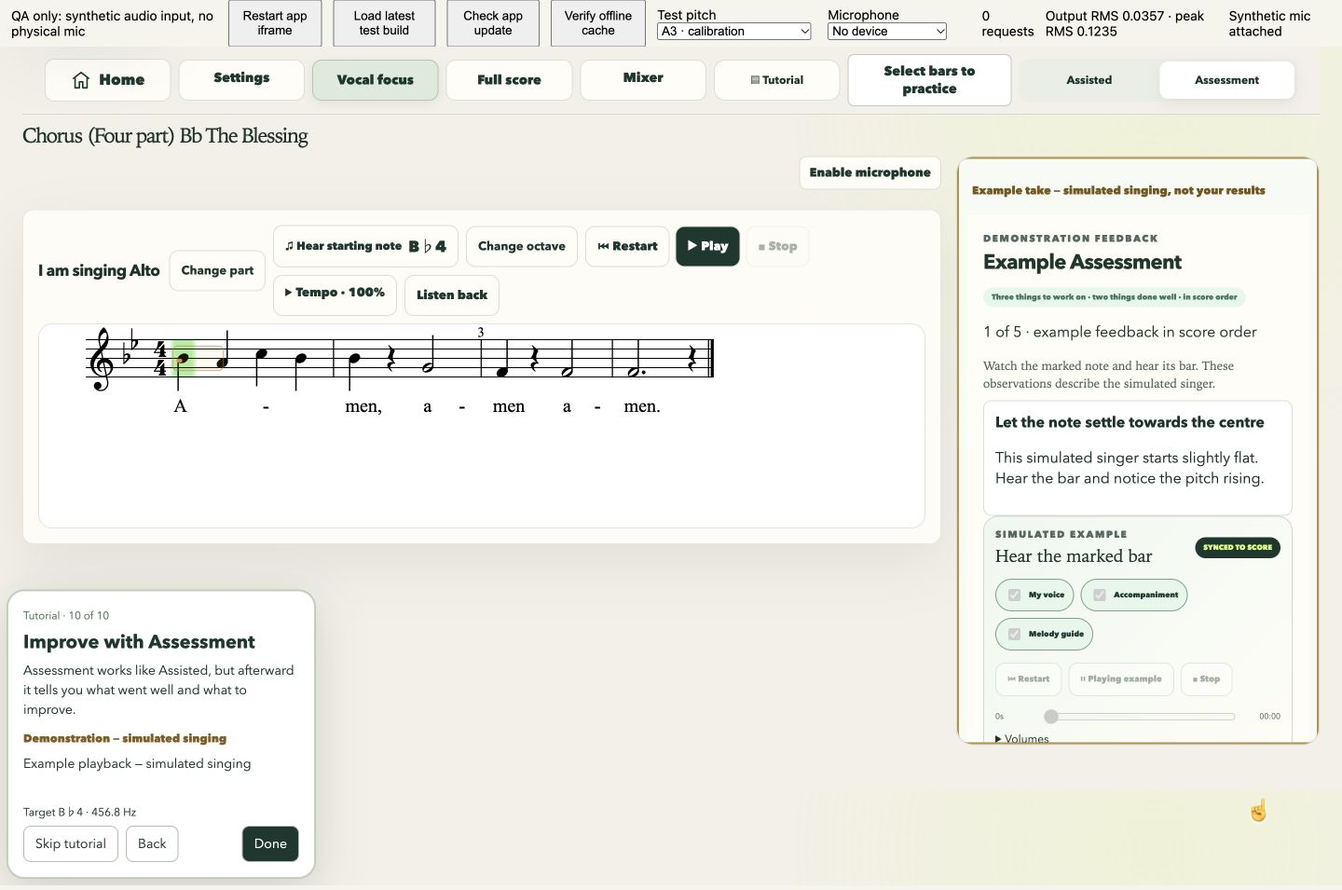
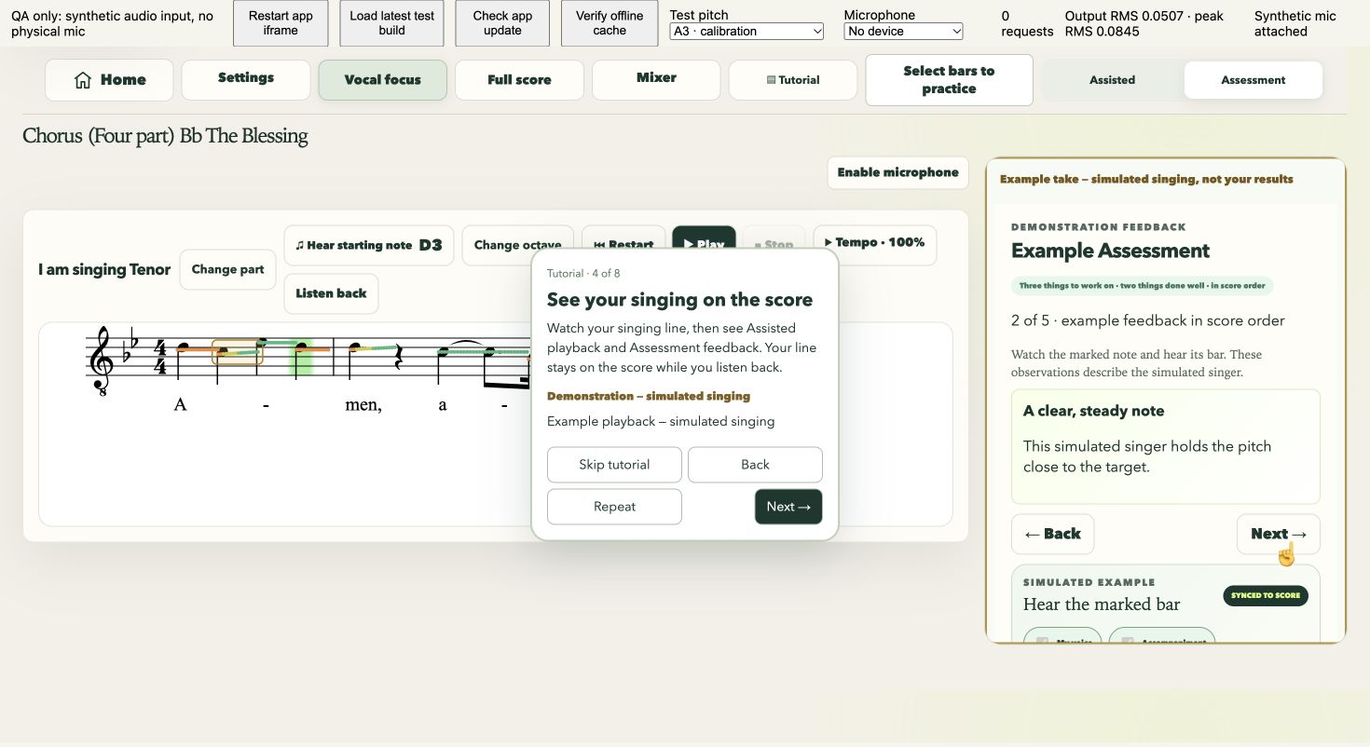
Keep tutorial demonstrations visible and restore former singing parts in Mixer

diff --git a/src/tutorial-demo-ui.js b/src/tutorial-demo-ui.js
@@ -2,7 +2,7 @@ import {colourForCents,midiToFrequency} from './config.js?v=34';
 import {pitchName} from './starting-note.js?v=34';
 import {pointForSample,traceSegments} from './score-overlay.js?v=34';
 import {playbackRoutes} from './playback-routing.js?v=34';
-import {correctionCents,singingTone,demoPhrase} from './tutorial-demo.js?v=34';
+import {correctionCents,singingTone,demoPhrase,phraseReviewPlan} from './tutorial-demo.js?v=34';
 const NS='http://www.w3.org/2000/svg';
 const svg=(name,attrs)=>{const e=document.createElementNS(NS,name);for(const [k,v] of Object.entries(attrs))e.setAttribute(k,String(v));return e;};
 export function renderTutorialTrace(container,geometry,samples){
@@ -15,13 +15,21 @@ export function renderTutorialTrace(container,geometry,samples){
 // recordings, assessment arrays and preference stores are never written here.
 export function createDemoUI(bridge){
  const {state,audio,els,$}=bridge;
- let samples=[],lastSample=-1,lastQuarter=-1,lastOctave=null,lastView=null,review=null,voiceGain=null,pointer=null;
+ let samples=[],lastSample=-1,lastQuarter=-1,lastOctave=null,lastView=null,review=null,voiceGain=null,pointer=null,pointerTarget=null,pointerAnimation=null;
  const textIds=['detectedNote','detectedFrequency','centsOutput','tuningPhase'];
  const clamp=value=>Math.max(0,Math.min(1,value));
  function point(element,progress=.5){
   if(!element)return;pointer??=Object.assign(document.createElement('span'),{className:'tutorial-pointer',textContent:'☝'});
   if(!pointer.isConnected)document.body.append(pointer);
-  const r=element.getBoundingClientRect();pointer.style.left=`${r.left+r.width*progress}px`;pointer.style.top=`${r.top+r.height*.6}px`;
+  const r=element.getBoundingClientRect(),left=r.left+r.width*progress,top=r.top+r.height*.6;
+  pointer.style.left=`${left}px`;pointer.style.top=`${top}px`;
+  if(pointerTarget!==element){
+   pointerAnimation?.cancel();pointerTarget=element;
+   if(!matchMedia('(prefers-reduced-motion: reduce)').matches)pointerAnimation=pointer.animate([
+    {transform:`translate(${innerWidth/2-left}px,${innerHeight/2-top}px)`},
+    {transform:'translate(-20%,0)'},
+   ],{duration:700,easing:'ease-out'});
+  }
  }
  function control(element,value){if(!element)return;const existing=element.type==='checkbox'?element.checked:element.value;if(String(existing)===String(value))return;if(element.type==='checkbox')element.checked=value;else element.value=String(value);element.dispatchEvent(new Event(element.type==='checkbox'?'change':'input',{bubbles:true}));}
  function mode(value){state.mode=value;els.modeButtons.forEach(button=>{const selected=button.dataset.mode===value;button.classList.toggle('active',selected);button.setAttribute('aria-checked',String(selected));});}
@@ -97,32 +105,10 @@ export function createDemoUI(bridge){
    }
    if(kind==='tempo'){$('#tempoPanel').open=true;control(els.tempoSlider,100);}
    data.timeline=demoPhrase(notes,kind,data.bpm);
+   if(kind==='phrase')Object.assign(data,phraseReviewPlan(notes,data.bpm));
    if(kind==='practice'){
     $('#practiceEditor').hidden=false;$('#editPracticeButton').setAttribute('aria-expanded','true');els.sectionFrom.value='';els.sectionTo.value='';$('#repeatPractice').checked=false;
     data.timeline=data.timeline.map(e=>({...e,start:e.start+2.2,end:e.end+2.2}));
-   }
-   if(kind==='assisted'||kind==='assessment'){
-    mode(kind);const take=demoPhrase(notes,'phrase',data.bpm),length=take.at(-1).end;
-    const intro=2*60/data.bpm,reviewStart=intro+length+.7;
-    data.timeline=take.map(e=>({...e,start:e.start+intro,end:e.end+intro}));
-    data.countInDuration=intro;data.reviewStart=reviewStart;
-    if(kind==='assisted')data.timeline.push(...take.map(e=>({...e,start:e.start+reviewStart,end:e.end+reviewStart,review:true})));
-    else{
-     let time=reviewStart;
-     data.observations=Array.from({length:5},(_,i)=>{
-      const note=notes[Math.min(notes.length-1,Math.floor(i*notes.length/5))];
-      const tone=i%2===1?'positive':'improvement';
-      return {note,tone,title:tone==='positive'?'A clear, steady note':'Let the note settle towards the centre',body:tone==='positive'?'This simulated singer holds the pitch close to the target.':'This simulated singer starts slightly flat. Hear the bar and notice the pitch rising.'};
-     });
-     data.observations.forEach((observation,i)=>{
-      const bar=part.vocalTimeline.filter(n=>n.measureNumber===observation.note.measureNumber).slice(0,8);
-      const segment=demoPhrase(bar,'phrase',data.bpm);
-      data.timeline.push(...segment.map(e=>({...e,start:e.start+time,end:e.end+time,review:true,observation:i})));
-      time+=segment.at(-1).end;
-     });
-     data.fullReviewStart=time;
-     data.timeline.push(...take.map(e=>({...e,start:e.start+time,end:e.end+time,review:true,observation:5})));
-    }
    }
    bridge.layout();return data;
   },
@@ -171,7 +157,6 @@ export function createDemoUI(bridge){
      const regions=[...els.scoreContainer.querySelectorAll('.score-measure-region')],region=regions.find(r=>Number(r.dataset.measureNumber)===(seconds<1?first:last));point(region,clamp((seconds-.4)/1.2));
      bridge.previewRange(first,seconds<1?first:last);$('#practiceRangeStatus').textContent=`Selected: bars ${first}–${seconds<1?first:last}`;
     }else{$('#repeatPractice').checked=true;point($('#repeatPractice'));}
-    if(seconds>=2.2&&innerWidth<=700){$('#practiceEditor').hidden=true;$('#editPracticeButton').setAttribute('aria-expanded','false');pointer?.remove();pointer=null;}
    }
    if(kind==='tempo'&&value.note){control(els.tempoSlider,value.pass===0?100:Math.round(100-30*clamp((seconds-data.timeline.find(e=>e.pass===1).start)/.3)));point(els.tempoSlider,value.pass===0?.5:.2);}
    if(Number.isFinite(value.midi)&&value.voiced!==false){
@@ -182,12 +167,17 @@ export function createDemoUI(bridge){
     els.countInDisplay.hidden=false;$('#countInBar').textContent=`Example count-in · ${Math.max(1,2-Math.floor(seconds/(60/data.bpm)))}`;point($('#dockPlayPauseButton'));
    }else if(kind==='assisted'||kind==='assessment')els.countInDisplay.hidden=true;
    if(value.note){
-    if(value.scoreQuarter<lastQuarter)samples=[];lastQuarter=value.scoreQuarter;
-    if(value.voiced!==false&&seconds-lastSample>=.035){samples.push({...value});lastSample=seconds;renderTutorialTrace(els.scoreContainer,state.scoreGeometry,samples);}
+    if(!value.review&&value.scoreQuarter<lastQuarter)samples=[];lastQuarter=value.scoreQuarter;
+    if(!value.review&&value.voiced!==false&&seconds-lastSample>=.035){samples.push({...value});lastSample=seconds;renderTutorialTrace(els.scoreContainer,state.scoreGeometry,samples);}
+    // Opening review reflows the notation; redraw the original take on its new geometry.
+    if(value.review&&samples.length)renderTutorialTrace(els.scoreContainer,state.scoreGeometry,samples);
     bridge.cursor(value.scoreQuarter,value.note);
     if(value.review){
-     if(!review)makeReview(kind==='assessment',data);value.target='.tutorial-review-example';
-     if(kind==='assessment'){
+     const reviewMode=value.mode||kind;
+     if(state.mode!==reviewMode||!review){mode(reviewMode);makeReview(reviewMode==='assessment',data);data.modeChangedAt=seconds;}
+     value.target=seconds-data.modeChangedAt<1?`[data-mode="${reviewMode}"]`:'.tutorial-review-example';
+     if(seconds-data.modeChangedAt<1){point(document.querySelector(value.target));value.message=`Select ${reviewMode==='assisted'?'Assisted to listen back':'Assessment for feedback in score order'}. Your singing line stays visible.`;}
+     if(reviewMode==='assessment'){
       const observation=data.observations[value.observation];
       const list=review.querySelector('#demo-coachObservations');
       if(list.dataset.step!==String(value.observation)){
@@ -211,6 +201,10 @@ export function createDemoUI(bridge){
     }
    }
   },
+  refresh(){if(samples.length)renderTutorialTrace(els.scoreContainer,state.scoreGeometry,samples);},
+  finish(){
+   if(review){review.querySelector('#demo-performancePlay').innerHTML='▶ <span>Example complete</span>';review.querySelector('.performance-playback-head > span').textContent='Repeat the tutorial example to hear it again';}
+  },
   async restore(snapshot){
    state.guideSettings=snapshot.guideSettings;state.guideVoice=snapshot.guideVoice;state.partVolumes=snapshot.partVolumes;state.partVoices=snapshot.partVoices;state.enabledParts=new Set(snapshot.enabledParts);
    audio.setGuideVolume(snapshot.guideSettings.volume);audio.setGuideVoice(snapshot.guideVoice);
@@ -229,7 +223,7 @@ export function createDemoUI(bridge){
    state.tutorialDemoActive=false;if(state.microphoneDecision==='ready'&&audio.hasMicrophoneStream)audio.startPitchSampling();
   },
   cleanup(){
-   pointer?.remove();pointer=null;review?.remove();review=null;
+   pointerAnimation?.cancel();pointerAnimation=null;pointerTarget=null;pointer?.remove();pointer=null;review?.remove();review=null;
    samples=[];lastQuarter=-1;els.countInDisplay.hidden=true;
    document.querySelectorAll('.tutorial-demo-trace').forEach(e=>e.remove());document.querySelectorAll('.tutorial-mixer-target').forEach(e=>e.classList.remove('tutorial-mixer-target'));document.body.classList.remove('tutorial-demo-meter','tutorial-demo-mixer');bridge.mark(null);bridge.octaves().closeDemo();bridge.layout();
   },

diff --git a/src/tutorial-demo.js b/src/tutorial-demo.js
@@ -4,13 +4,11 @@ export const TUTORIAL_LESSONS=Object.freeze([
  {id:'starting',target:'#hearStartingNote',title:'Hear your starting note',copy:'Before singing, listen to your starting note. You can sing it back and use the pitch meter to check your voice.'},
  {id:'octaves',target:'#changeOctaveButton',title:'Choose your singing octave',copy:'Choose a comfortable register. The singing target and vocal guide change octave; the score and accompaniment stay as written.'},
  {id:'pitch',target:'#tuningMeter',title:'From flat to in tune',copy:'Listen and watch the singer gently raise their pitch towards the centre.'},
- {id:'phrase',target:'.score-viewport',title:'See your singing on the score',copy:'The line shows how your voice moves through the music. Its position shows your pitch, and the colour shows how accurately you’re singing.'},
+ {id:'phrase',target:'.score-viewport',title:'See your singing on the score',copy:'Watch your singing line, then see Assisted playback and Assessment feedback. Your line stays on the score while you listen back.'},
  {id:'mixer',target:'#mixerPanel',title:'Balance your music',copy:'Bring the other parts in one at a time, then lower an accompaniment so your guide is easier to hear.'},
  {id:'tempo',target:'#tempoPanel',title:'Slow down the music',copy:'If a passage is difficult, slow it down. You can bring the speed back up when you’re ready.'},
  {id:'practice',target:'#editPracticeButton',title:'Practise a short section',copy:'Enter bar numbers or drag across the score. Repeat plays your selected bars again.'},
  {id:'views',target:'[data-view="vocal"]',title:'See the music your way',copy:'Vocal Focus shows your melody. Full Score shows how your part fits with the other voices and instruments.'},
- {id:'assisted',target:'[data-mode="assisted"]',title:'Practise with Assisted',copy:'Assisted helps you practise your singing and listen back to what you performed.'},
- {id:'assessment',target:'[data-mode="assessment"]',title:'Improve with Assessment',copy:'Assessment works like Assisted, but afterward it tells you what went well and what to improve.'},
 ]);
 export function correctionCents(seconds){
  const progress=Math.max(0,Math.min(1,(seconds-2.4)/2));
@@ -32,6 +30,20 @@ export function demoPhrase(notes,kind='phrase',bpm=80){
  }
  return entries;
 }
+// One sung take, followed by both review flows, retaining the original trace.
+export function phraseReviewPlan(notes,bpm=80){
+ const take=demoPhrase(notes,'phrase',bpm),timeline=[...take],length=take.at(-1)?.end||1;
+ let time=length+1;
+ const append=(entries,extra)=>{timeline.push(...entries.map(e=>({...e,start:e.start+time,end:e.end+time,review:true,...extra})));time+=entries.at(-1)?.end||1;};
+ append(take,{mode:'assisted'});time+=1;
+ const observations=Array.from({length:5},(_,i)=>{
+  const note=notes[Math.min(notes.length-1,Math.floor(i*notes.length/5))],tone=i%2===1?'positive':'improvement';
+  return {note,tone,title:tone==='positive'?'A clear, steady note':'Let the note settle towards the centre',body:tone==='positive'?'This simulated singer holds the pitch close to the target.':'This simulated singer starts slightly flat. Hear the bar and notice the pitch rising.'};
+ });
+ observations.forEach((observation,i)=>append(demoPhrase(notes.filter(n=>n.measureNumber===observation.note.measureNumber),'phrase',bpm),{mode:'assessment',observation:i}));
+ const fullReviewStart=time;append(take,{mode:'assessment',observation:5});
+ return {timeline,observations,fullReviewStart};
+}
 export function demoFrame(kind,seconds,data){
  const target=data.targetMidi;
  if(kind==='pitch'){
@@ -47,7 +59,7 @@ export function demoFrame(kind,seconds,data){
  const progress=Math.min(1,Math.max(0,(seconds-entry.start)/(entry.end-entry.start)));
  const voiceProgress=Math.min(1,Math.max(0,(seconds-entry.start)/Math.max(.001,entry.duration)));
  const cents=entry.index%3===0?-35:entry.index%3===1?-35+37*voiceProgress:2;
- return {voiced:seconds-entry.start<entry.duration,target:data.displayTarget,note:entry.note,targetId:entry.note.id,targetMidi:entry.note.midi+data.shift,midi:entry.note.midi+data.shift+cents/100,cents,frequency:demoFrequency(entry.note.midi+data.shift,cents),colour:colourForCents(cents),scoreQuarter:entry.note.onsetQuarters+(entry.endQuarter-entry.note.onsetQuarters)*progress,scoreSeconds:seconds,index:entry.index,pass:entry.pass,review:entry.review,observation:entry.observation,message:entry.review?'Example playback — simulated singing':kind==='tempo'?(entry.pass===0?'The melody at 100%.':'The same melody more slowly at 70%.'):kind==='practice'?`The selected bars repeat · pass ${entry.pass+1} of 2.`:'The line shows the pitch and accuracy of the simulated singer.'};
+ return {voiced:seconds-entry.start<entry.duration,target:data.displayTarget,note:entry.note,targetId:entry.note.id,targetMidi:entry.note.midi+data.shift,midi:entry.note.midi+data.shift+cents/100,cents,frequency:demoFrequency(entry.note.midi+data.shift,cents),colour:colourForCents(cents),scoreQuarter:entry.note.onsetQuarters+(entry.endQuarter-entry.note.onsetQuarters)*progress,scoreSeconds:seconds,index:entry.index,pass:entry.pass,review:entry.review,mode:entry.mode,observation:entry.observation,message:entry.review?'Example playback — simulated singing':kind==='tempo'?(entry.pass===0?'The melody at 100%.':'The same melody more slowly at 70%.'):kind==='practice'?`The selected bars repeat · pass ${entry.pass+1} of 2.`:'The line shows the pitch and accuracy of the simulated singer.'};
 }
 // Continuous audio uses the same cents function and audio-context clock as the
 // visual frames. Its graph is output-only: never connected to a microphone.
@@ -90,10 +102,10 @@ export function createTutorialDemos(adapter,{request=requestAnimationFrame,cance
     await adapter.display(kind,value,data,seconds,()=>token===generation);
     if(token!==generation)return;
     onUpdate({...value,seconds,duration});
-    if(seconds>=duration){stop();await restoring;if(token+1===generation)onUpdate({done:true,message:'Example complete. Continue when you’re ready.'});return;}
+    if(seconds>=duration){frame=null;disposeAudio?.();disposeAudio=null;adapter.finish?.(kind,data);onUpdate({done:true,message:'Example complete. Repeat it or continue when you’re ready.'});return;}
     frame=request(tick);
    };frame=request(tick);return true;
   }catch(error){if(token===generation){stop();onUpdate({done:true,message:error.message||'This example could not play. Use Back and Next to try again.'});}return false;}
  }
- return {get active(){return active;},run,stop,unlock};
+ return {get active(){return active;},run,stop,unlock,refresh(){if(active)adapter.refresh?.();}};
 }

diff --git a/src/tutorial.js b/src/tutorial.js
@@ -5,6 +5,7 @@ const TUTORIAL_KEY='vocal-coach:tutorial:v5';
 export function tutorialPosition(target,card,viewport,blockers=[]) {
  const gap=12,edge=8;
  const candidates=[
+  {left:(viewport.width-card.width)/2,top:(viewport.height-card.height)/2},
   {left:edge,top:viewport.height-card.height-edge},
   {left:viewport.width-card.width-edge,top:viewport.height-card.height-edge},
   {left:target.right+gap,top:target.top},
@@ -32,10 +33,10 @@ export function createOnboarding({storage,show,hide,onStudioReady=()=>{}}){
 }
 
 export function createTutorial({onStudioReady=()=>{},demos}={}){
- let kind='studio',index=0,target=null,run=0,audioBlocked=false;
+ let kind='studio',index=0,target=null,run=0,audioBlocked=false,anchor=null;
  const card=document.createElement('section');card.className='tutorial-card';card.hidden=true;
  card.setAttribute('role','dialog');card.setAttribute('aria-labelledby','tutorialTitle');
- card.innerHTML='<div class="tutorial-lesson-body"><small id="tutorialProgress"></small><h2 id="tutorialTitle"></h2><p id="tutorialCopy"></p><p id="demoLabel">Demonstration — simulated singing</p><p id="demoStatus" role="status"></p><output id="demoPitch"></output></div><div class="tutorial-actions"><button type="button" data-tour="skip">Skip tutorial</button><button type="button" data-tour="back">Back</button><button type="button" data-tour="next">Next →</button></div>';
+ card.innerHTML='<div class="tutorial-lesson-body"><small id="tutorialProgress"></small><h2 id="tutorialTitle"></h2><p id="tutorialCopy"></p><p id="demoLabel">Demonstration — simulated singing</p><p id="demoStatus" role="status"></p><output id="demoPitch"></output></div><div class="tutorial-actions"><button type="button" data-tour="skip">Skip tutorial</button><button type="button" data-tour="back">Back</button><button type="button" data-tour="repeat">Repeat</button><button type="button" data-tour="next">Next →</button></div>';
  document.body.append(card);const find=selector=>card.querySelector(selector);
  const visible=e=>e&&!e.closest('[hidden]')&&e.getBoundingClientRect().width>0;
  function highlight(selector){
@@ -46,14 +47,17 @@ export function createTutorial({onStudioReady=()=>{},demos}={}){
   if(card.hidden)return;
   const rect=target?.getBoundingClientRect()||{left:16,right:16,top:80,bottom:80};
   const size=card.getBoundingClientRect();
-  // A stable bottom corner leaves the score and top popovers in place.
-  const blockers=[document.querySelector('.score-viewport'),document.querySelector('#tuningMeter')].filter(visible).map(e=>e.getBoundingClientRect());
-  const point=tutorialPosition(rect,size,{width:innerWidth,height:innerHeight},blockers);
-  card.style.left=`${point.left}px`;card.style.top=`${point.top}px`;
+  const viewport={width:innerWidth,height:innerHeight};
+  // Stay put within a lesson unless its current subject would be covered.
+  const overlaps=p=>p.left<rect.right&&p.left+size.width>rect.left&&p.top<rect.bottom&&p.top+size.height>rect.top;
+  if(!anchor||overlaps(anchor)||anchor.left+size.width>innerWidth-8||anchor.top+size.height>innerHeight-8)
+   anchor=tutorialPosition(rect,size,viewport);
+  const point=anchor;
+  card.style.setProperty('--tutorial-left',`${point.left}px`);card.style.setProperty('--tutorial-top',`${point.top}px`);
  }
  function hide(){run++;demos.stop();target?.classList.remove('tutorial-target');target=null;card.hidden=true;document.body.classList.remove('tutorial-studio');}
  function render(){
-  const token=++run;demos.stop();audioBlocked=false;
+  const token=++run;demos.stop();audioBlocked=false;anchor=null;
   const lesson=TUTORIAL_LESSONS[index];
   target?.classList.remove('tutorial-target');target=null;
   card.hidden=false;document.body.classList.toggle('tutorial-studio',kind==='studio');
@@ -81,8 +85,9 @@ export function createTutorial({onStudioReady=()=>{},demos}={}){
  card.addEventListener('click',event=>{
   const action=event.target.closest('[data-tour]')?.dataset.tour;
   if(action==='skip'){complete();return;}
-  if(!['back','next'].includes(action))return;
+  if(!['back','next','repeat'].includes(action))return;
   demos.unlock();
+  if(action==='repeat'){render();return;}
   if(action==='next'&&audioBlocked){render();return;}
   if(action==='next'&&index===TUTORIAL_LESSONS.length-1){complete();return;}
   index=Math.max(0,index+(action==='back'?-1:1));render();
@@ -98,6 +103,6 @@ export function createTutorial({onStudioReady=()=>{},demos}={}){
   }
  };
  document.addEventListener('keydown',keys,true);window.addEventListener('resize',position);
- return {showView:name=>controller.view(name),setActive:value=>controller.active(value),replay(){demos.unlock();return controller.replay();},refreshOverview:position,
+ return {showView:name=>controller.view(name),setActive:value=>controller.active(value),replay(){demos.unlock();return controller.replay();},refreshOverview(){demos.refresh?.();position();},
  destroy(){controller.destroy();document.removeEventListener('keydown',keys,true);window.removeEventListener('resize',position);card.remove();}};
 }

diff --git a/test/tutorial-demo.test.js b/test/tutorial-demo.test.js
@@ -27,8 +27,8 @@ function harness(){
  const demo=createTutorialDemos(adapter,{request:fn=>{callback=fn;return 1;},cancel:()=>{callback=null;}});
  return {demo,adapter,calls,async tick(seconds){now=seconds;await callback?.();}};
 }
-test('demo does not start itself, and completion stops sound before restoring exactly once',async()=>{
- const h=harness();assert.equal(h.demo.active,false);assert.deepEqual(h.calls,[]);await h.demo.run('pitch');assert.equal(h.demo.active,true);await h.tick(1);await h.tick(7);assert.equal(h.demo.active,false);assert.equal(h.calls.filter(c=>c==='restore').length,1);assert.ok(h.calls.indexOf('stop audio')<h.calls.indexOf('restore'));h.demo.stop();assert.equal(h.calls.filter(c=>c==='restore').length,1);
+test('completion stops audio and holds demonstration until navigation restores exactly once',async()=>{
+ const h=harness();assert.equal(h.demo.active,false);assert.deepEqual(h.calls,[]);await h.demo.run('pitch');assert.equal(h.demo.active,true);await h.tick(1);await h.tick(7);assert.equal(h.demo.active,true);assert.equal(h.calls.filter(c=>c==='restore').length,0);assert.ok(h.calls.includes('stop audio'));h.demo.stop();assert.ok(h.calls.indexOf('stop audio')<h.calls.indexOf('restore'));assert.equal(h.calls.filter(c=>c==='restore').length,1);
 });
 test('Skip/Escape while asynchronous samples load cannot restart a cancelled demo',async()=>{
  const h=harness();let ready;h.adapter.prepare=()=>new Promise(resolve=>ready=resolve);const pending=h.demo.run('phrase');await Promise.resolve();h.demo.stop();ready({...data,context:{currentTime:0}});assert.equal(await pending,false);assert.equal(h.demo.active,false);assert.ok(!h.calls.includes('audio'));assert.equal(h.calls.filter(c=>c==='restore').length,1);
@@ -80,9 +80,9 @@ test('production demo adapter restores mixer, target, cursor and display without
  }finally{globalThis.document=previousDocument;}
 });
 
-test('one ordered tutorial covers all ten lessons and ends with Assessment',async()=>{
+test('one ordered tutorial folds both review modes into the score lesson',async()=>{
  const {TUTORIAL_LESSONS}=await import('../src/tutorial-demo.js');
- assert.deepEqual(TUTORIAL_LESSONS.map(l=>l.id),['starting','octaves','pitch','phrase','mixer','tempo','practice','views','assisted','assessment']);
+ assert.deepEqual(TUTORIAL_LESSONS.map(l=>l.id),['starting','octaves','pitch','phrase','mixer','tempo','practice','views']);
  const tutorial=await readFile(new URL('../src/tutorial.js',import.meta.url),'utf8');
  for(const removed of ['TOUR_STEPS','SINGING_LESSONS','Watch demo','Replay demo','Try it','onTry','stage='])assert.ok(!tutorial.includes(removed));
  assert.ok(tutorial.includes('demos.run(lesson.id'));assert.ok(tutorial.includes('audioBlocked'));
@@ -118,4 +118,20 @@ test('trace and sung correction stop at the note end while the cursor continues 
  assert.equal(demoFrame('phrase',.2,testData).voiced,true);
  assert.equal(demoFrame('phrase',1,testData).voiced,false);
  assert.ok(demoFrame('phrase',1,testData).scoreQuarter>note.durationQuarters);
+});
+
+test('score lesson sings once then demonstrates both modes in score order with full playback last',async()=>{
+ const {phraseReviewPlan}=await import('../src/tutorial-demo.js');
+ const plan=phraseReviewPlan(notes,80);
+ assert.equal(plan.timeline.filter(e=>!e.review).length,notes.length);
+ assert.deepEqual([...new Set(plan.timeline.filter(e=>e.review).map(e=>e.mode))],['assisted','assessment']);
+ assert.deepEqual(plan.observations.map(o=>o.note.onsetQuarters),[8,9,10,11,12]);
+ assert.equal(plan.timeline.at(-1).observation,5);
+ assert.ok(plan.timeline.every((e,i,a)=>!i||e.start>=a[i-1].end));
+});
+test('Repeat restarts a held example and Skip still restores once',async()=>{
+ const h=harness();await h.demo.run('pitch');await h.tick(7);
+ await h.demo.run('pitch');assert.equal(h.calls.filter(c=>c==='restore').length,1);
+ assert.equal(h.calls.filter(c=>c==='audio').length,2);await h.demo.stop();
+ assert.equal(h.calls.filter(c=>c==='restore').length,2);
 });

diff --git a/index.html b/index.html
@@ -66,12 +66,13 @@
               <p>Use only when the automatic check needs a manual adjustment.</p>
             </details>
 
-            <p class="settings-privacy">Your scores, microphone data and recordings stay on this device. Nothing is uploaded.</p></details></div></details><div class="view-switch" role="group" aria-label="Score view"><button type="button" class="active" data-view="vocal">Vocal focus</button><button type="button" data-view="full">Full score</button></div><details id="mixerPanel" class="mixer-panel"><summary>Mixer</summary><div class="mixer-grid">            <div class="accompaniment-block"><div class="setting-label"><span>Accompaniment</span><button id="toggleAllParts" type="button">Mute all</button></div><div class="accompaniment-list" id="accompanimentList"></div></div>
-            <div class="volume-block"><label class="guide-enabled-control"><input id="guideEnabled" type="checkbox" checked /> Vocal guide: On / Off</label><p class="guide-headphone-advice">Headphones are recommended for reliable assessment. Speakers can leak the guide into your microphone.</p>
-              <label class="volume-field" for="guideVolume"><span><strong>Vocal Guide</strong><output id="guideVolumeOutput">92%</output></span><input id="guideVolume" type="range" min="0" max="100" value="92" step="2" /></label>
-              <label class="guide-voice-field" for="guideVoice"><span>Guide voice</span><select id="guideVoice"><option value="human" selected>Human voice</option><option value="synthetic-ah">Synthetic Ah</option></select></label>
+            <p class="settings-privacy">Your scores, microphone data and recordings stay on this device. Nothing is uploaded.</p></details></div></details><div class="view-switch" role="group" aria-label="Score view"><button type="button" class="active" data-view="vocal">Vocal focus</button><button type="button" data-view="full">Full score</button></div><details id="mixerPanel" class="mixer-panel"><summary>Mixer</summary><div class="mixer-grid">
+            <div class="volume-block"><label class="guide-enabled-control"><input id="guideEnabled" type="checkbox" checked /> My part: On / Off</label><p class="guide-headphone-advice">Headphones are recommended for reliable assessment. Speakers can leak the guide into your microphone.</p>
+              <label class="volume-field" for="guideVolume"><span><strong>My part</strong><output id="guideVolumeOutput">92%</output></span><input id="guideVolume" type="range" min="0" max="100" value="92" step="2" /></label>
+              <label class="guide-voice-field" for="guideVoice"><span>Sound</span><select id="guideVoice"><option value="human" selected>Human voice</option><option value="synthetic-ah">Synthetic Ah</option></select></label>
               <p class="setting-message guide-voice-status" id="guideVoiceStatus" role="status" aria-live="polite" hidden></p>
             </div>
+            <div class="accompaniment-block"><div class="setting-label"><span>Accompaniment</span><button id="toggleAllParts" type="button">Mute all</button></div><div class="accompaniment-list" id="accompanimentList"></div></div>
 </div></details><button id="studioTutorialButton" type="button">▤ Tutorial</button><button id="editPracticeButton" type="button">Select bars to practice</button><div class="mode-switch" role="radiogroup" aria-label="Session mode">
               <button type="button" class="active" data-mode="assisted" role="radio" aria-checked="true"><strong>Assisted</strong><small>Record + review</small></button>
               <button type="button" data-mode="assessment" role="radio" aria-checked="false"><strong>Assessment</strong><small>Detailed coaching</small></button>

diff --git a/test/guided-preparation.test.js b/test/guided-preparation.test.js
@@ -32,3 +32,11 @@ test('an octave confirmation is deferred during a recorded take',()=>{
  const fn=new Function('state','audio','$','document','pitchName',text+';return renderOctaveSuggestion;')(state,audio,$,{querySelector:()=>null},midi=>String(midi));
  fn();assert.equal(shown,0);audio.isPlaying=false;state.sessionOctaveShift=null;fn();assert.equal(shown,1);assert.equal($('#acceptOctaveSuggestion').textContent,'Switch to 38');
 });
+
+test('changing singing part restores the former target as accompaniment while retaining deliberate mutes',()=>{
+ const start=app.indexOf('function restoreScorePreferences()'),end=app.indexOf('\nfunction scorePreferences()',start);
+ const state={savedPreferences:{selectedPartId:'bass',enabledParts:['alto','piano'],octaveByPart:{}},selectedPartId:'alto',score:{parts:[{id:'bass'},{id:'alto'},{id:'tenor'},{id:'piano'}]},enabledParts:new Set(['bass','tenor','piano']),partVolumes:{},partVoices:{}};
+ const enabled=[];const deps={state,audio:{setPartEnabled:(id,on)=>enabled.push([id,on])},practiceMode:x=>x,guideSettings:()=>({}),renderGuideSettings(){},setGuideVoice(){},setCountInBars(){},DEFAULT_OCTAVE_SHIFT:0,setOctaveShift(){},normaliseGuideVoice:x=>x,renderAccompaniment(){},renderPracticeRangeControls(){},setMode(){},updateSetupSummary(){}};
+ new Function(...Object.keys(deps),app.slice(start,end)+';restoreScorePreferences();')(...Object.values(deps));
+ assert.deepEqual([...state.enabledParts].sort(),['bass','piano']);assert.ok(enabled.some(([id,on])=>id==='bass'&&on));
+});

diff --git a/app.js b/app.js
@@ -414,7 +414,7 @@ function restoreScorePreferences() {
   for (const part of state.score.parts.filter(p=>p.id!==state.selectedPartId)) {
     if (Number.isFinite(prefs.partVolumes?.[part.id])) {state.partVolumes[part.id]=Math.max(0,Math.min(100,prefs.partVolumes[part.id]));audio.setPartVolume(part.id,state.partVolumes[part.id]);}
     if (prefs.partVoices?.[part.id]) {state.partVoices[part.id]=normaliseGuideVoice(prefs.partVoices[part.id]);audio.setPartVoice(part.id,state.partVoices[part.id]);}
-    if (Array.isArray(prefs.enabledParts)) {if(prefs.enabledParts.includes(part.id))state.enabledParts.add(part.id);else state.enabledParts.delete(part.id);audio.setPartEnabled(part.id,state.enabledParts.has(part.id));}
+    if (Array.isArray(prefs.enabledParts)) {if(prefs.enabledParts.includes(part.id)||prefs.selectedPartId===part.id)state.enabledParts.add(part.id);else state.enabledParts.delete(part.id);audio.setPartEnabled(part.id,state.enabledParts.has(part.id));}
   }
   renderAccompaniment();renderPracticeRangeControls();setMode(state.mode);updateSetupSummary();
 }

diff --git a/styles.css b/styles.css
@@ -1086,3 +1086,13 @@ body.tutorial-demo-meter .score-stage { grid-template-columns:minmax(0,1fr) clam
 }
 
 #changePartDialog button[value="change"] { background:var(--forest); color:white; }
+
+/* Tutorial cards have a steady centre-first anchor, moved only to reveal a subject. */
+body.tutorial-studio .tutorial-card,
+body.tutorial-studio:has(.tutorial-octaves[open]) .tutorial-card,
+body.tutorial-demo-mixer .tutorial-card { left:var(--tutorial-left,8px)!important; top:var(--tutorial-top,8px)!important; bottom:auto; right:auto; }
+.tutorial-card .tutorial-actions { display:grid; grid-template-columns:repeat(2,minmax(0,1fr)); gap:6px; }
+.tutorial-card #demoPitch { min-height:18px; }
+.tutorial-pointer { animation:none; }
+
+.mixer-grid > .volume-block:first-child { border-top:0; padding-top:0; }

diff --git a/test/onboarding-selection.test.js b/test/onboarding-selection.test.js
@@ -72,3 +72,7 @@ test('redesigned tour is offered once to a user who completed the previous versi
  assert.deepEqual(t.shown,['studio']);t.controller.skip('studio');
  const reopened=onboarding(t.storage);reopened.controller.view('studio');assert.deepEqual(reopened.shown,[]);
 });
+
+test('tutorial defaults to the centre when its subject is unobstructed',()=>{
+ assert.deepEqual(tutorialPosition({left:10,right:110,top:20,bottom:60},{width:300,height:240},{width:1440,height:900}),{left:570,top:330});
+});

diff --git a/docs/qa/automatic-tutorial/README.md b/docs/qa/automatic-tutorial/README.md
@@ -2,11 +2,11 @@
 
 ## Changes
 
-The navigation tour and separate Singing Lessons have been replaced by one ten-lesson Tutorial. Opening a score offers it once; completing or skipping stores `vocal-coach:tutorial:v5`. Earlier tour completions deliberately do not suppress this redesigned experience. There is no second welcome tutorial. Tutorial replays from lesson one while the studio is idle.
+The navigation tour and separate Singing Lessons have been replaced by one eight-lesson Tutorial. Opening a score offers it once; completing or skipping stores `vocal-coach:tutorial:v5`. Earlier tour completions deliberately do not suppress this redesigned experience. There is no second welcome tutorial. Tutorial replays from lesson one while the studio is idle.
 
-Every lesson starts its example automatically. Back restarts the previous example, Next advances, Done finishes the last lesson, and Skip/Escape stop the example. An autoplay-blocked first visit shows the visual explanation and uses Next to unlock and restart the audible example. Lessons never advance themselves.
+Every lesson starts its example automatically. Repeat restarts the current example. When sound finishes, its demonstrated panel, settings and singing trace remain visible until navigation; natural completion no longer restores the screen. Cards prefer the centre and retain their anchor within each lesson unless they cover the demonstrated subject. Pointers travel from the viewport centre to each new subject, respecting reduced motion. Back restarts the previous example, Next advances, Done finishes the last lesson, and Skip/Escape stop the example. An autoplay-blocked first visit shows the visual explanation and uses Next to unlock and restart the audible example. Lessons never advance themselves.
 
-The examples use the current score and real guide/accompaniment instruments. Mixer inputs change actual channel gains, tempo changes actual control values and musical scheduling, practice selection dims outside bars and plays two passes, and view selection re-renders OSMD. Assisted/Assessment use labelled simulated singing and isolated copies of the production review surfaces. Assessment demonstrates three improvements and two positives in score order, corresponding bar playback, then full-example playback and volume controls. Demo controls are illustrative; Tutorial navigation remains the only active navigation. No recording is created or saved.
+The examples use the current score and real guide/accompaniment instruments. Mixer inputs change actual channel gains, tempo changes actual control values and musical scheduling, practice selection dims outside bars and plays two passes, and view selection re-renders OSMD. The score-trace lesson sings once and then shows Assisted playback, Assessment feedback and full playback while retaining the original trace. Separate Assisted/Assessment lessons 9 and 10 have been removed. Both modes use labelled simulated singing and isolated copies of the production review surfaces. Assessment demonstrates three improvements and two positives in score order, corresponding bar playback, then full-example playback and volume controls. Demo controls are illustrative; Tutorial navigation remains the only active navigation. No recording is created or saved.
 
 Cancellation restores Mixer settings, octave choice, tempo, range/Repeat, view, mode, cursor, tuner text and any existing review. A paused real review is detached from temporary demo gain changes and restored afterward. Pending loads and score renders cannot restart a cancelled example. Stopping an inactive Tutorial does not touch a real take's count-in or review.
 
@@ -21,7 +21,7 @@ Change part now opens an in-place vocal-part picker, preserving each part's save
 All requested commands passed, with `npm run check` run under Node 20:
 
 - `npm run generate`
-- `npm run check`: **257 tests passed**, no failures/skips
+- `npm run check`: **261 tests passed**, no failures/skips
 - `npm run build`
 - `npm run offline:check`: **170 verified assets, 14.6 MB**
 - `git diff --check`
@@ -30,13 +30,19 @@ New/updated checks cover one-time onboarding/migration, lesson ordering and auto
 
 The explicit written **D3 / sung C♯2** regression suggests **D2 after 500 ms** of stable input while retaining **−100 cents** of pitch error. The same one-semitone discrepancy does not pass the stricter recorded-performance octave detector.
 
+The Mixer now lists **My part** before accompaniment. Switching singing parts explicitly re-enables the former singing part as accompaniment; deliberate mutes on other parts are preserved. Browser reproduction Bass → Alto confirmed Bass remained checked.
+
+## Latest refinement checks
+
+Desktop browser verification confirmed 118 original trace points persisted through Assisted playback and into Assessment; Assessment became selected and showed chronological observations. Phone layout (390 × 844) kept the Mixer above the tutorial with all four navigation actions visible. Automated regression tests cover held completion, Repeat restoration/restart, centre-first placement, and the combined review timeline. The older screenshots below for tempo, practice and part selection document the preceding validation; Assessment, full review and mobile Tutorial images have been refreshed.
+
 ## Browser checks
 
 Chrome was checked at desktop (1440 × 900 app area), tablet (834 px wide), and phone (390 × 844), using the included four-part Chorus score. Checks included:
 
 - First-use launch directly into lesson one; completion/Skip suppresses relaunch; Tutorial replays.
 - Back/Next rapid transitions through every lesson, including cancellation during view rendering; no browser errors observed.
-- Microphone-free examples: the QA getUserMedia counter remained **0 requests** across all ten lessons.
+- Microphone-free examples: the QA getUserMedia counter remained **0 requests** across the Tutorial.
 - Real Web Audio output measured above silence during examples (observed peak window RMS about **0.1235**). Mixer sliders brought parts up independently; tempo visibly reached **70%**; Repeat visibly reached **pass 2 of 2** with dimmed outside bars.
 - Full Score rendered Soprano, Alto, Tenor, Bass and Piano, matching its selected button, before returning to Vocal Focus.
 - Assisted example review and five Assessment observations, marked notes/bar playback, full-example playback controls, and cleanup on completion/Skip.
